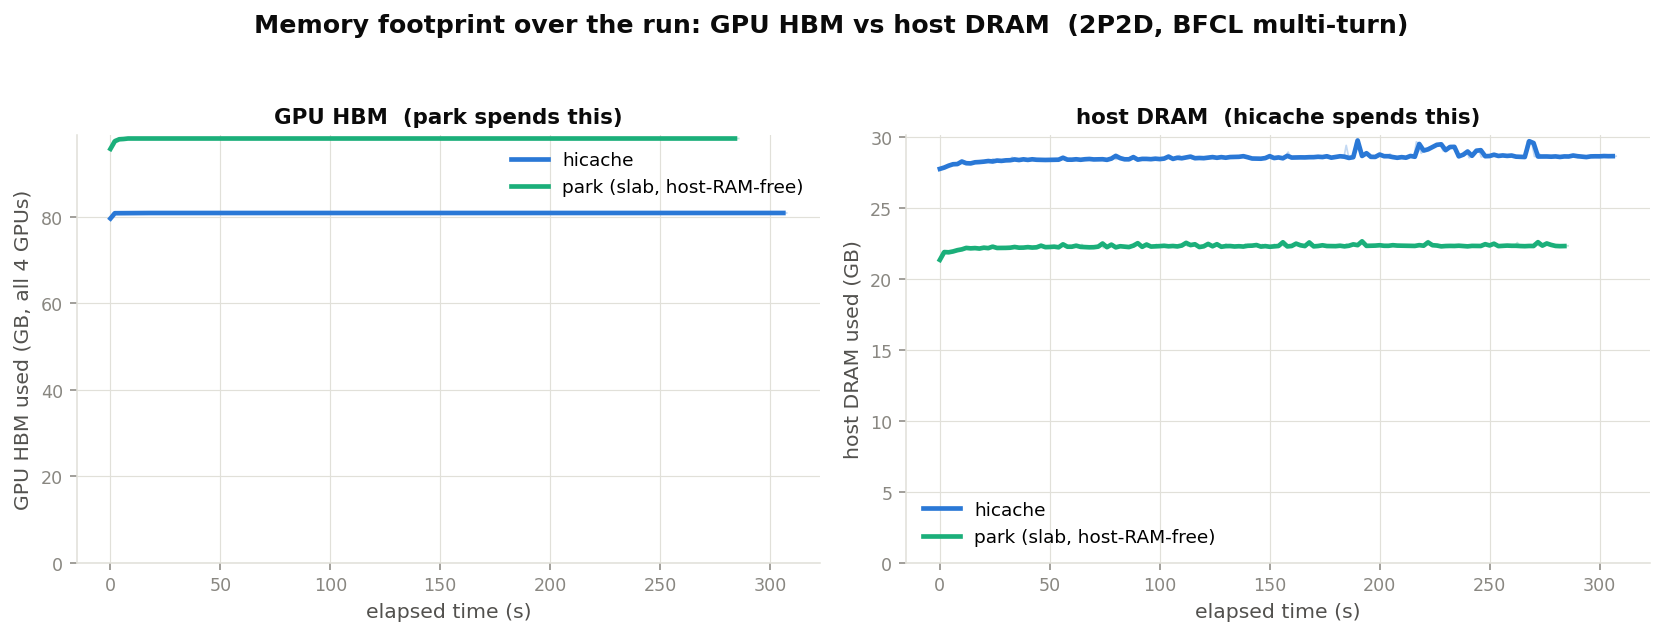
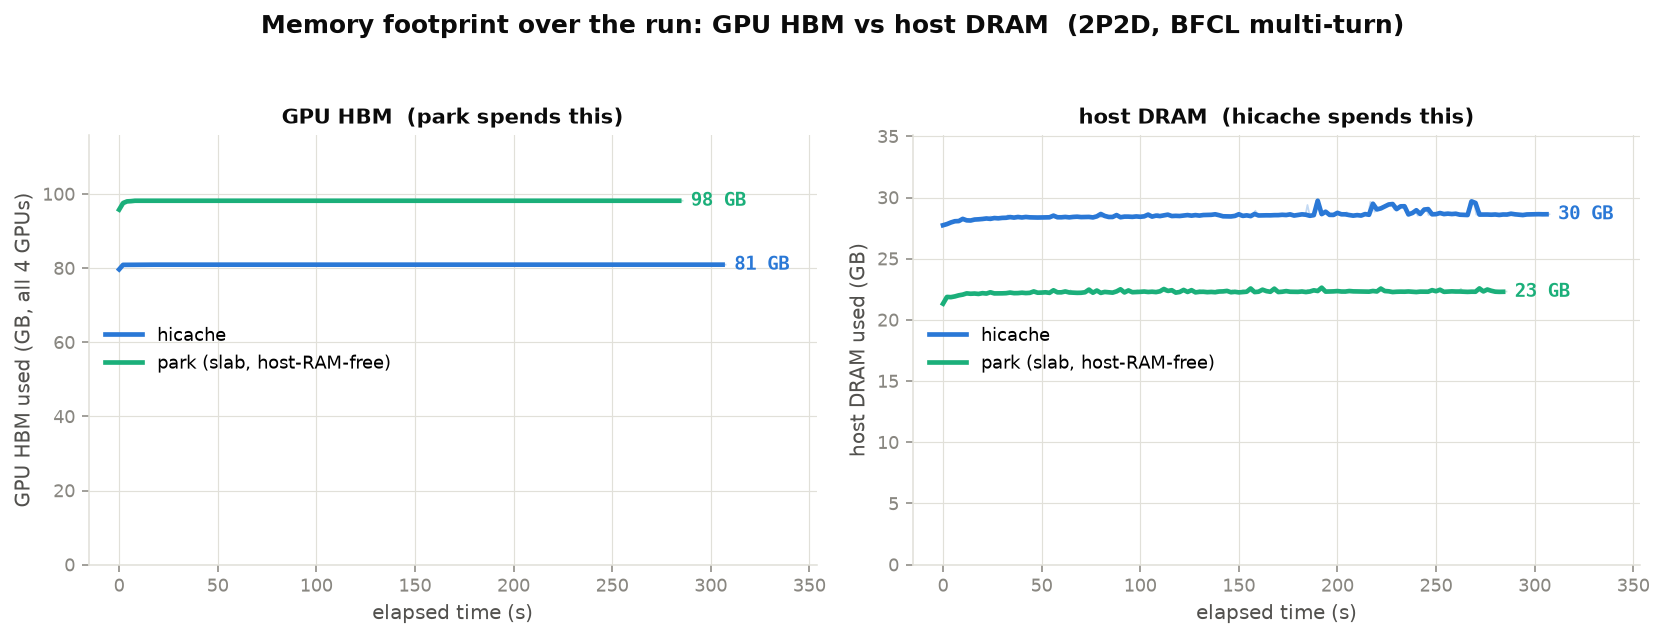
plot_mem_timeline: direct GB value labels on each line + y/x headroom
The top line (park GPU HBM ~98GB) sat above the highest tick with no label.
Annotate each mean line's peak GB at its right end and add head/right margin
so the value is always visible.

Claude-Session: https://claude.ai/code/session_01AoK4pG7kwrWE4Xc7fqoTVf

diff --git a/benchmark/plot_mem_timeline.py b/benchmark/plot_mem_timeline.py
@@ -74,24 +74,36 @@ def mean_series(series, dt=2.0):
 
 
 def draw(ax, park, hic, ylabel, title):
+    ymax = 0.0
     for series, color, label in ((hic, C_HICACHE, "hicache"),
                                  (park, C_PARK, "park (slab, host-RAM-free)")):
         for xs, ys in series:  # faint per-rep lines
             ax.plot(xs, ys, color=color, lw=0.9, alpha=0.28, zorder=2)
         mx, my = mean_series(series)
-        if mx:
-            ax.plot(mx, my, color=color, lw=2.4, zorder=3, label=label)
+        if not mx:
+            continue
+        ax.plot(mx, my, color=color, lw=2.4, zorder=3, label=label)
+        pk = peak(series)
+        ymax = max(ymax, pk)
+        # direct value label at the right end of the mean line (peak GB)
+        ax.annotate(f"{pk:.0f} GB", xy=(mx[-1], my[-1]), xytext=(6, 0),
+                    textcoords="offset points", va="center", ha="left",
+                    color=color, fontsize=10, fontweight="bold",
+                    fontfamily="monospace")
     ax.set_xlabel("elapsed time (s)", color=SECOND, fontsize=10.5)
     ax.set_ylabel(ylabel, color=SECOND, fontsize=10.5)
     ax.set_title(title, fontsize=11, color=INK, fontweight="bold")
     ax.grid(color=GRID, lw=0.6); ax.set_axisbelow(True)
-    ax.set_ylim(bottom=0)
+    ax.set_ylim(0, ymax * 1.18 if ymax else None)  # headroom so top line + label fit
+    # extra right margin so the GB labels don't clip
+    x1 = max((xs[-1] for series in (park, hic) for xs, _ in series), default=1)
+    ax.set_xlim(right=x1 * 1.15)
     for s in ("top", "right"):
         ax.spines[s].set_visible(False)
     for s in ("bottom", "left"):
         ax.spines[s].set_color(GRID)
     ax.tick_params(colors=MUTED, labelsize=9)
-    ax.legend(frameon=False, fontsize=9.5, loc="best")
+    ax.legend(frameon=False, fontsize=9.5, loc="center left")
 
 
 def peak(series):
